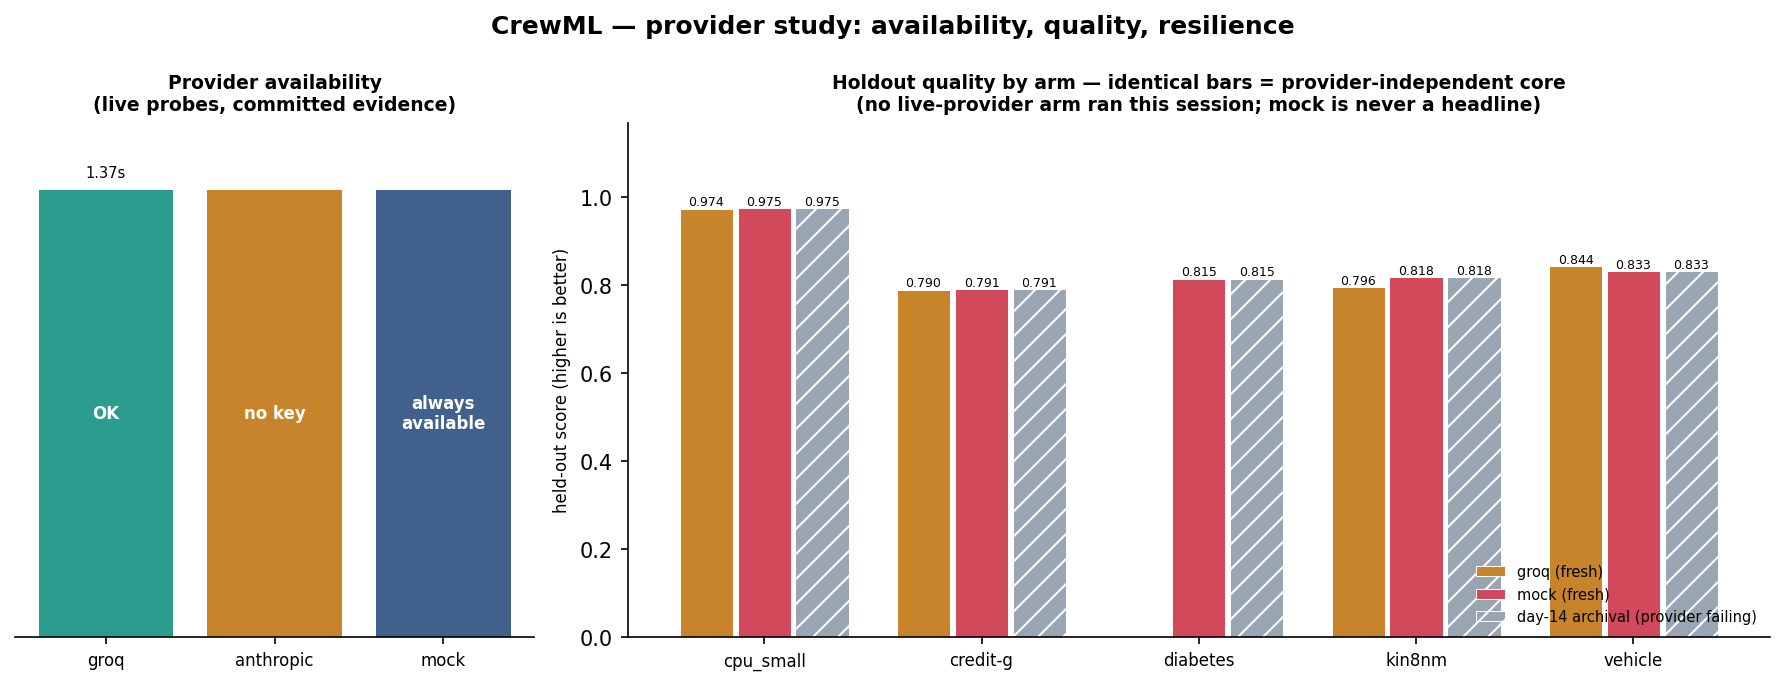
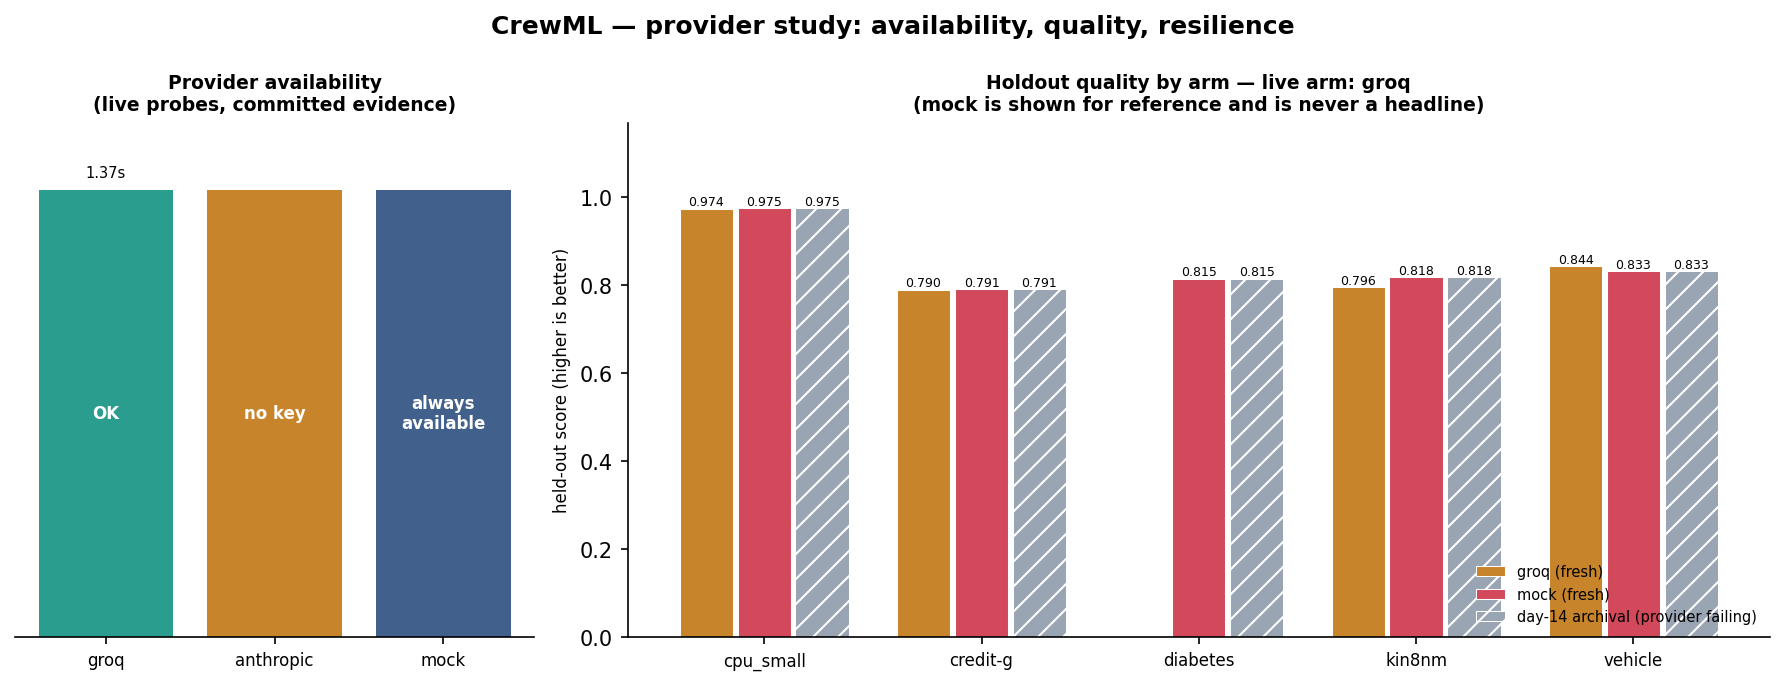
fix: wire Day-10's critique feedback to the FE, and regenerate the artifacts the last commit only fixed the generators for
Follow-through on the sprint audit. The previous commit fixed three generators but
left the artifacts they produce stale — the same class of defect the audit had just
flagged (a committed artifact contradicting its own source).

- results/charts/day16_provider_study.png still displayed "no live-provider arm ran
  this session" over the live Groq arm; the caption fix was in charts.py but the PNG
  was never re-rendered. Regenerated.
- results/sample_model_card.md still told readers the executor was a
  process-isolation sandbox and self-repair was future work. The Reporter template
  was fixed; the committed sample was not. Boilerplate re-synced, every measured
  number left untouched (regenerating from the trimmed Day-11 record would have
  replaced real numbers with em-dashes).

Also closes the one confirmed audit finding the previous commit skipped: Day 10
promised the Critic's instructions feed back to "Planner/FE", but only the Planner
was ever wired. On a looped pass the Feature Engineer regenerated from the plan
alone and could re-introduce the very feature the Critic objected to — and a
target-derived engineered column is something only the FE can remove. The FE now
receives the latest critique, filtered to FE-relevant findings (leakage, overfit,
wrong_metric), with the directives recorded on fe_meta as provenance. The first
pass is unchanged, so no prompt grows without a critique to justify it.
[…]

Changed region(s): [[0.4622, 0.092, 0.8627, 0.1839]]

diff --git a/crewml/crew/feature_engineer.py b/crewml/crew/feature_engineer.py
@@ -152,9 +152,37 @@ _FE_SYSTEM_PROMPT = textwrap.dedent(
 )
 
 
-def _fe_user_prompt(plan: dict[str, Any]) -> str:
+# Which Critic findings are the Feature Engineer's business. `leak` is the one that
+# most needs FE's attention — the Planner can only re-audit column drops, while an
+# engineered feature derived from the target can only be removed by whoever writes
+# the FE code. `overfit` matters because gratuitous features widen fold variance.
+_FE_RELEVANT_CODES: frozenset[str] = frozenset({"leakage", "overfit", "wrong_metric"})
+
+
+def _critique_directives(critique: Optional[dict[str, Any]]) -> list[str]:
+    """The FE-addressed directives from a critique, newest pass only.
+
+    Reads ``diagnoses`` — the Critic's *structured* findings. Note that
+    ``critique["findings"]`` is a list of pre-rendered **strings** for the Planner,
+    not dicts; reading that key instead raises ``AttributeError`` on a real looped
+    run. Tolerates either shape so a caller passing the structured list directly
+    (as tests do) also works.
+    """
+    if not critique:
+        return []
+    entries = critique.get("diagnoses") or critique.get("findings") or []
+    return [
+        d["directive"]
+        for d in entries
+        if isinstance(d, dict)
+        and d.get("code") in _FE_RELEVANT_CODES
+        and d.get("directive")
+    ]
+
+
+def _fe_user_prompt(plan: dict[str, Any], critique: Optional[dict[str, Any]] = None) -> str:
     pre = plan["preprocessing"]
-    return textwrap.dedent(
+    base = textwrap.dedent(
         f"""\
         Dataset: {plan['dataset_key']} — task {plan['task']} ({plan['subtype']}),
         optimising {plan['metric']}.
@@ -165,6 +193,20 @@ def _fe_user_prompt(plan: dict[str, Any]) -> str:
         Write `add_features(df)` now, adding a few leakage-free, row-wise numeric
         features you judge useful for maximising {plan['metric']} on unseen data of
         this shape. Return only the code.
+        """
+    )
+    # Day 10 promised the Critic's instructions feed back to "Planner/FE", but only
+    # the Planner was ever wired up: on a looped pass the FE regenerated from the
+    # plan alone and could re-introduce the very feature the Critic objected to.
+    directives = _critique_directives(critique)
+    if not directives:
+        return base
+    joined = "\n".join(f"- {d}" for d in directives)
+    return base + textwrap.dedent(
+        f"""
+        A previous pass was CRITIQUED. Address these findings in the features you
+        write this time — do not re-introduce what they object to:
+        {joined}
         """
     )
 
@@ -333,12 +375,14 @@ def _llm_enabled(with_llm: Optional[bool]) -> bool:
     return os.getenv("CREWML_FE_LLM", "1") != "0"
 
 
-def _generate_llm_fe(plan: dict[str, Any]) -> dict[str, Any]:
+def _generate_llm_fe(
+    plan: dict[str, Any], critique: Optional[dict[str, Any]] = None
+) -> dict[str, Any]:
     """Ask the live provider for dataset-specific ``add_features`` code. Never raises."""
     try:
         result = llm.chat(
             _FE_SYSTEM_PROMPT,
-            _fe_user_prompt(plan),
+            _fe_user_prompt(plan, critique),
             temperature=0.0,
             max_tokens=1024,
         )
@@ -362,6 +406,7 @@ def run_feature_engineer(
     *,
     with_llm: Optional[bool] = None,
     self_repair: Optional[bool] = None,
+    critique: Optional[dict[str, Any]] = None,
 ) -> dict[str, Any]:
     """Produce validated feature-engineering code for ``dataset_key`` from the plan.
 
@@ -381,12 +426,15 @@ def run_feature_engineer(
         "node": "feature_engineer",
         "dataset_key": dataset_key,
         "is_mock": config.is_mock_mode(),
+        # Day 10 promised critiques feed back to the Planner AND the FE; only the
+        # Planner was wired. Record whether this pass actually saw one.
+        "critique_directives": _critique_directives(critique),
     }
 
     use_llm = _llm_enabled(with_llm) and not config.is_mock_mode()
 
     if use_llm:
-        gen = _generate_llm_fe(plan)
+        gen = _generate_llm_fe(plan, critique)
         if gen["ok"]:
             verdict = _validate_fe(gen["code"], dataset_key)
             if verdict["ok"]:

diff --git a/tests/test_feature_engineer.py b/tests/test_feature_engineer.py
@@ -225,3 +225,81 @@ def test_repair_prompt_names_the_offending_infinite_columns():
     assert "no_infinities=False" in message
     assert "unguarded_ratio" in message
     assert "safe denominator" in message
+
+
+# --- Critique feedback reaches the FE (Day 10's other half, wired Day 20) -----
+#
+# Day 10 promised the Critic's instructions feed back to "Planner/FE", but only the
+# Planner was ever wired. On a looped pass the FE regenerated from the plan alone and
+# could re-introduce the exact feature the Critic objected to — and a target-derived
+# engineered column is something ONLY the FE can remove.
+
+_LEAK_CRITIQUE = {
+    "decision": "iterate",
+    # `findings` is what the Planner reads: plain strings, not dicts.
+    "findings": [
+        "leakage: engineered column mirrors the target [leak]",
+        "imbalance: class imbalance unhandled [imbalance]",
+    ],
+    "diagnoses": [
+        {"code": "leakage", "keyword": "leak", "severity": "high",
+         "detail": "Possible leakage: engineered column mirrors the target.",
+         "directive": "Re-audit dropped columns and any engineered feature derived "
+                      "from the target; drop the suspect column(s) before re-training."},
+        {"code": "imbalance", "keyword": "imbalance", "severity": "medium",
+         "detail": "Class imbalance unhandled.",
+         "directive": "Force class_weight='balanced' — a Planner-only concern."},
+    ],
+}
+
+
+def test_fe_prompt_carries_the_critique_directives(monkeypatch):
+    monkeypatch.setattr(config, "is_mock_mode", lambda: False)
+    seen = {}
+
+    def chat(system, user, **kwargs):
+        seen["user"] = user
+        return llm.LLMResult(text="```python\n" + DEFAULT_FE_SOURCE + "\n```",
+                             provider="fake", model="fake-1",
+                             prompt_tokens=10, completion_tokens=5)
+
+    monkeypatch.setattr(llm, "chat", chat)
+    out = fe.run_feature_engineer(_plan(), KEY, with_llm=True, critique=_LEAK_CRITIQUE)
+
+    assert "was CRITIQUED" in seen["user"]
+    assert "derived from the target" in seen["user"]          # the FE-relevant directive
+    assert "class_weight" not in seen["user"]                 # Planner-only, filtered out
+    assert out["meta"]["critique_directives"]                 # recorded as provenance
+
+
+def test_fe_prompt_is_unchanged_on_the_first_pass(monkeypatch):
+    monkeypatch.setattr(config, "is_mock_mode", lambda: False)
+    seen = {}
+
+    def chat(system, user, **kwargs):
+        seen["user"] = user
+        return llm.LLMResult(text="```python\n" + DEFAULT_FE_SOURCE + "\n```",
+                             provider="fake", model="fake-1",
+                             prompt_tokens=10, completion_tokens=5)
+
+    monkeypatch.setattr(llm, "chat", chat)
+    out = fe.run_feature_engineer(_plan(), KEY, with_llm=True, critique=None)
+    assert "was CRITIQUED" not in seen["user"]
+    assert out["meta"]["critique_directives"] == []
+
+
+def test_trainer_node_passes_the_latest_critique_to_the_fe(monkeypatch):
+    """The graph must actually hand the critique over, not just support it."""
+    from crewml.crew import nodes
+
+    captured = {}
+    monkeypatch.setattr(
+        nodes, "run_feature_engineer",
+        lambda plan, key, critique=None: captured.update(critique=critique)
+        or {"code": DEFAULT_FE_SOURCE, "meta": {}},
+    )
+    nodes.feature_engineer({
+        "plan": {}, "dataset_key": KEY,
+        "critiques": [{"decision": "iterate", "findings": []}, _LEAK_CRITIQUE],
+    })
+    assert captured["critique"] is _LEAK_CRITIQUE      # the LATEST pass, not the first

diff --git a/crewml/crew/nodes.py b/crewml/crew/nodes.py
@@ -79,7 +79,17 @@ def feature_engineer(state: CrewState) -> dict[str, Any]:
     the contract; otherwise (mock mode, LLM disabled, or a failed generation) it falls
     back to the deterministic default. The chosen source feeds the Trainer.
     """
-    result = run_feature_engineer(state["plan"], state["dataset_key"])
+    # On a Critic-triggered re-entry the FE now sees the latest critique too. Day 10
+    # promised the loop feeds specific instructions back to "Planner/FE" but only the
+    # Planner was wired: the FE regenerated from the plan alone and could re-introduce
+    # the very feature the Critic objected to (a target-derived column is something
+    # only whoever writes the FE code can remove).
+    critiques = state.get("critiques") or []
+    result = run_feature_engineer(
+        state["plan"],
+        state["dataset_key"],
+        critique=critiques[-1] if critiques else None,
+    )
     return {"fe_code": result["code"], "fe_meta": result["meta"], "trace": ["feature_engineer"]}
 
 

diff --git a/results/sample_model_card.md b/results/sample_model_card.md
@@ -50,7 +50,18 @@
 - All scores are CROSS-VALIDATED estimates on the train split (cv_score_is_holdout: false); the sealed held-out score is Phase 3.
 - No advisory LLM narrative ran live this run; every decision stands on the deterministic core.
 
-- The executor is a **process-isolation** sandbox, not yet a security sandbox
-  (hardening is Phase 4 / Day 19).
+- The executor runs generated code under a **SandboxPolicy** (Day 19): stdlib +
+  DS-stack import allowlist, no network egress, a filesystem jail, and memory/CPU
+  caps. That is defence-in-depth against careless generated code, **not** a
+  hostile-adversary boundary — true OS-level isolation arrives with the Day-27
+  Docker wrapper.
+- Generated code that **crashes** gets one bounded self-repair pass (Day 20): the
+  traceback goes back to the provider and a repaired run is adopted only if it
+  clears the same acceptance gate. Any repair is disclosed in the warnings above,
+  never applied silently. Timeouts and memory kills are never repaired.
 - "Overfit" signals from the Critic are **cross-validation fold-instability**, not a
   train-vs-held-out gap — the crew cannot see the held-out split by construction.
+
+---
+
+*Sample card captured from the Day-11 end-to-end run. Its measured numbers are that run's; the boilerplate limitations section was re-synced with the Reporter template on Day 20, after the Day-19 sandbox and Day-20 self-repair shipped and made the original wording false.*
